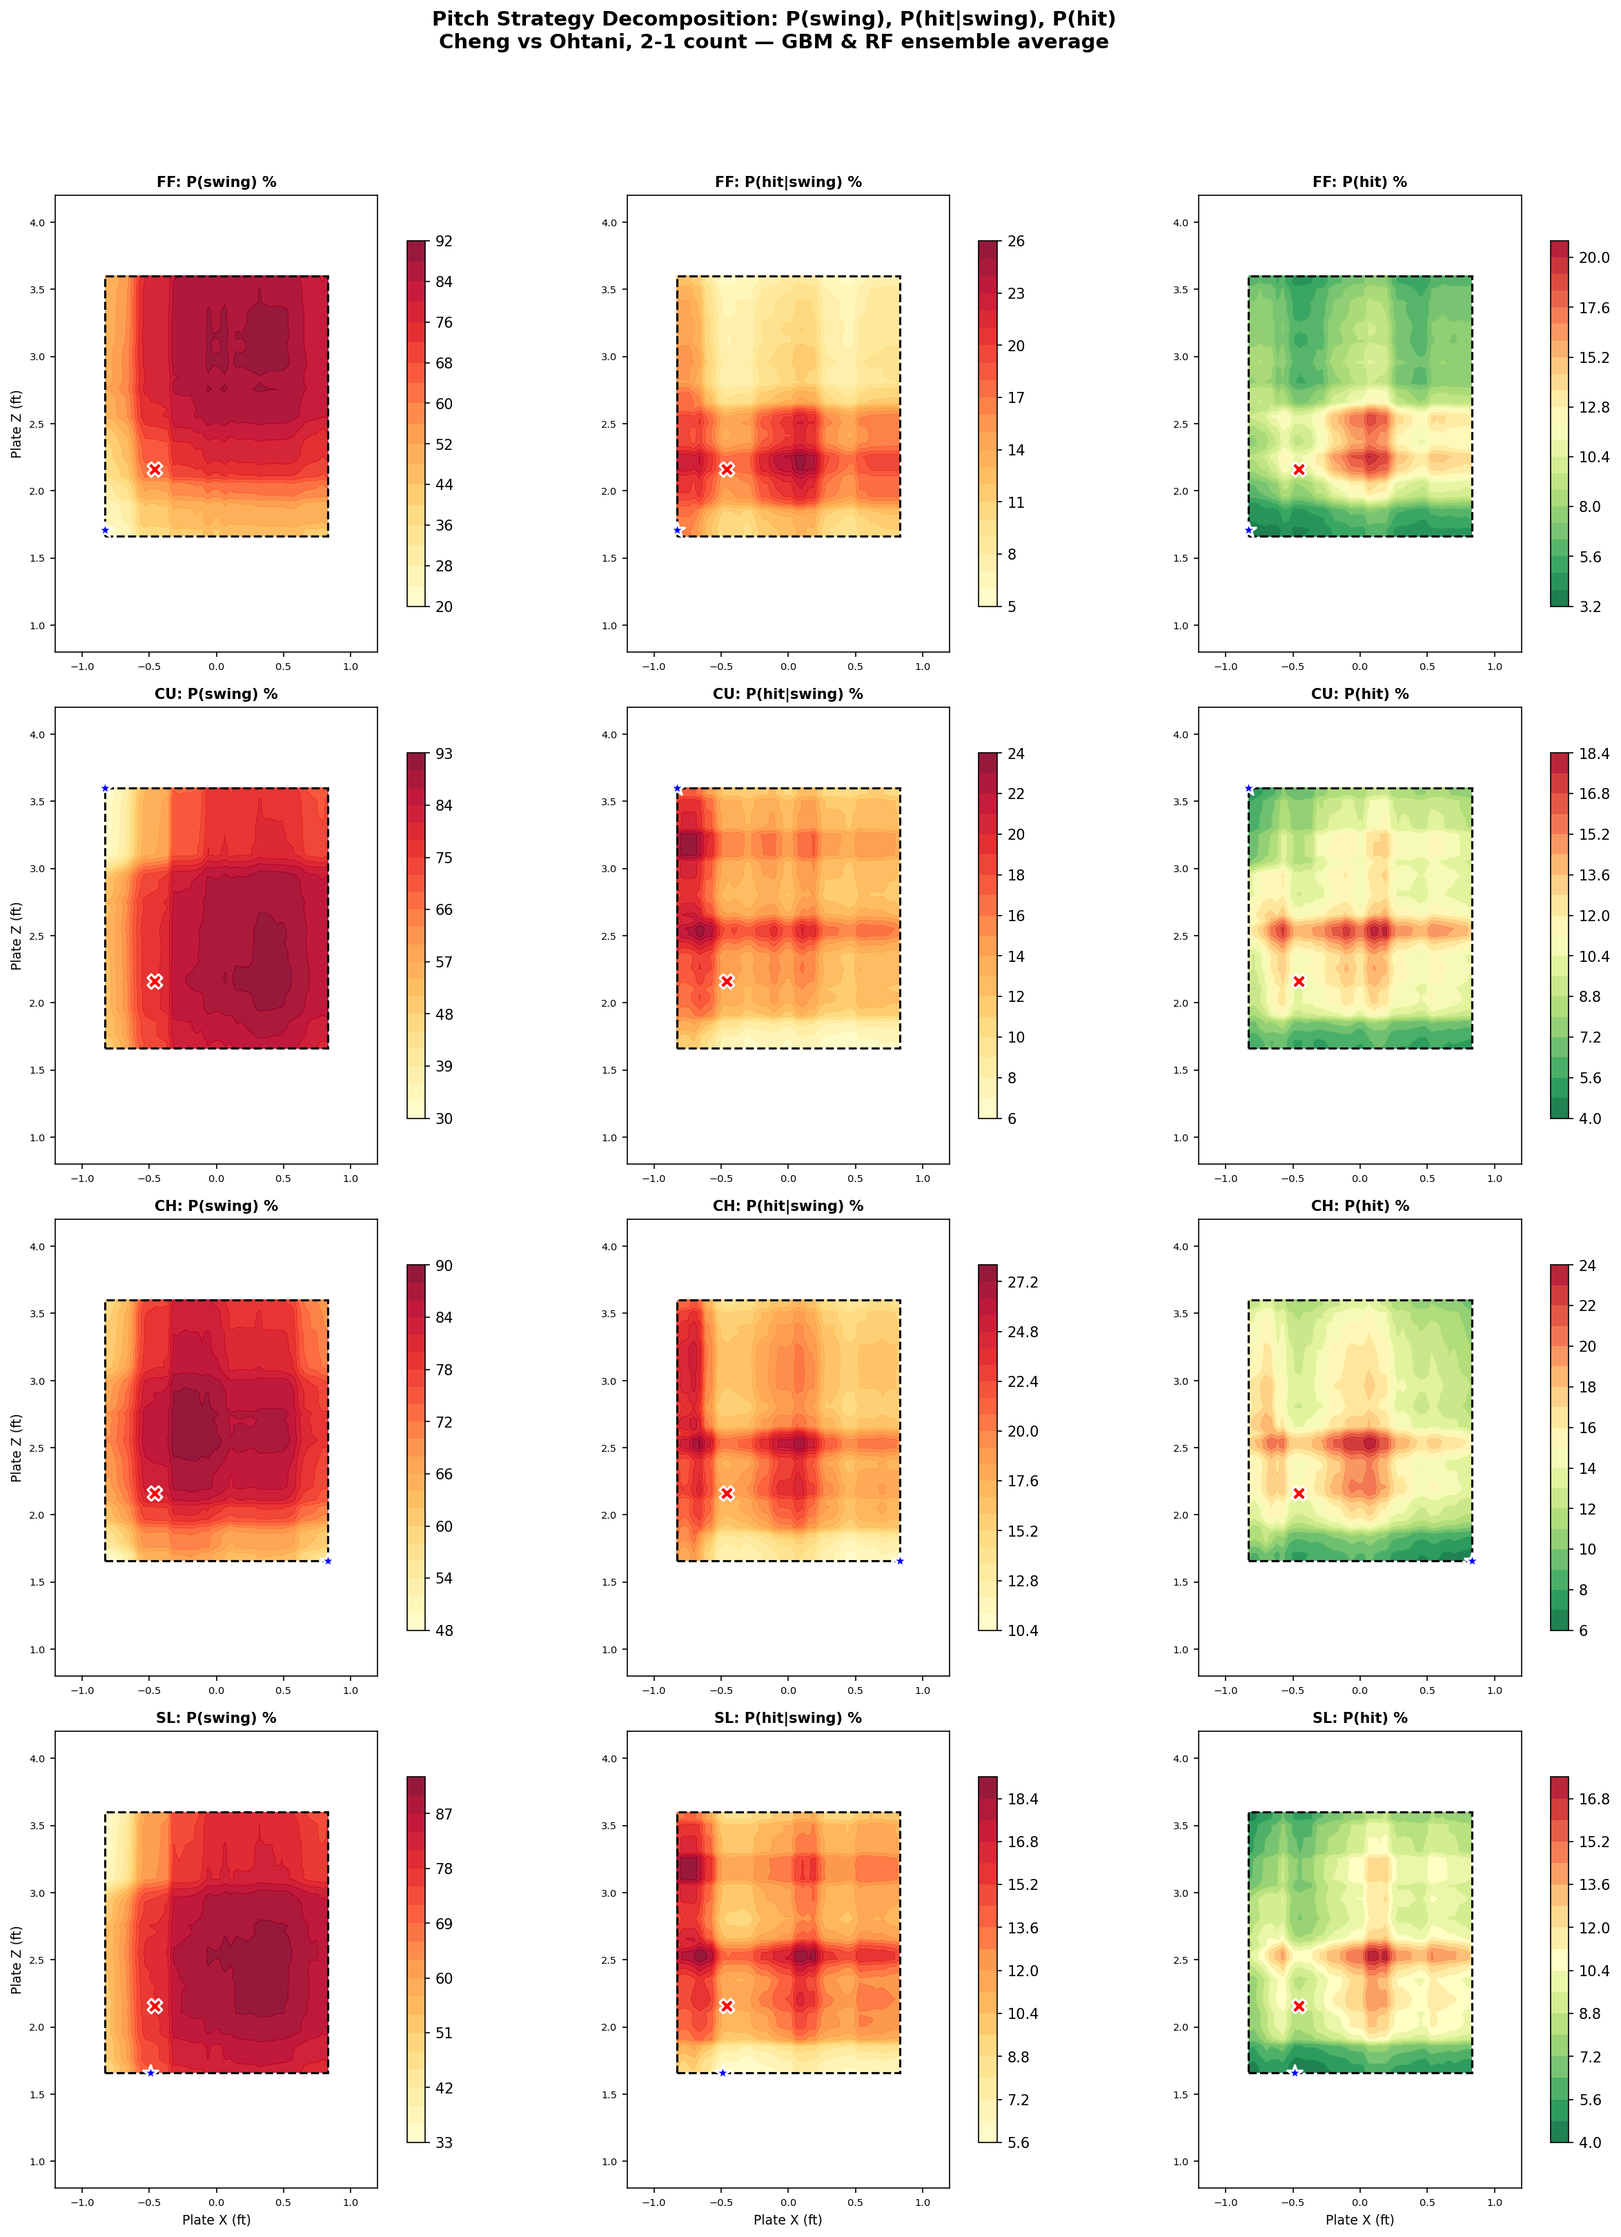
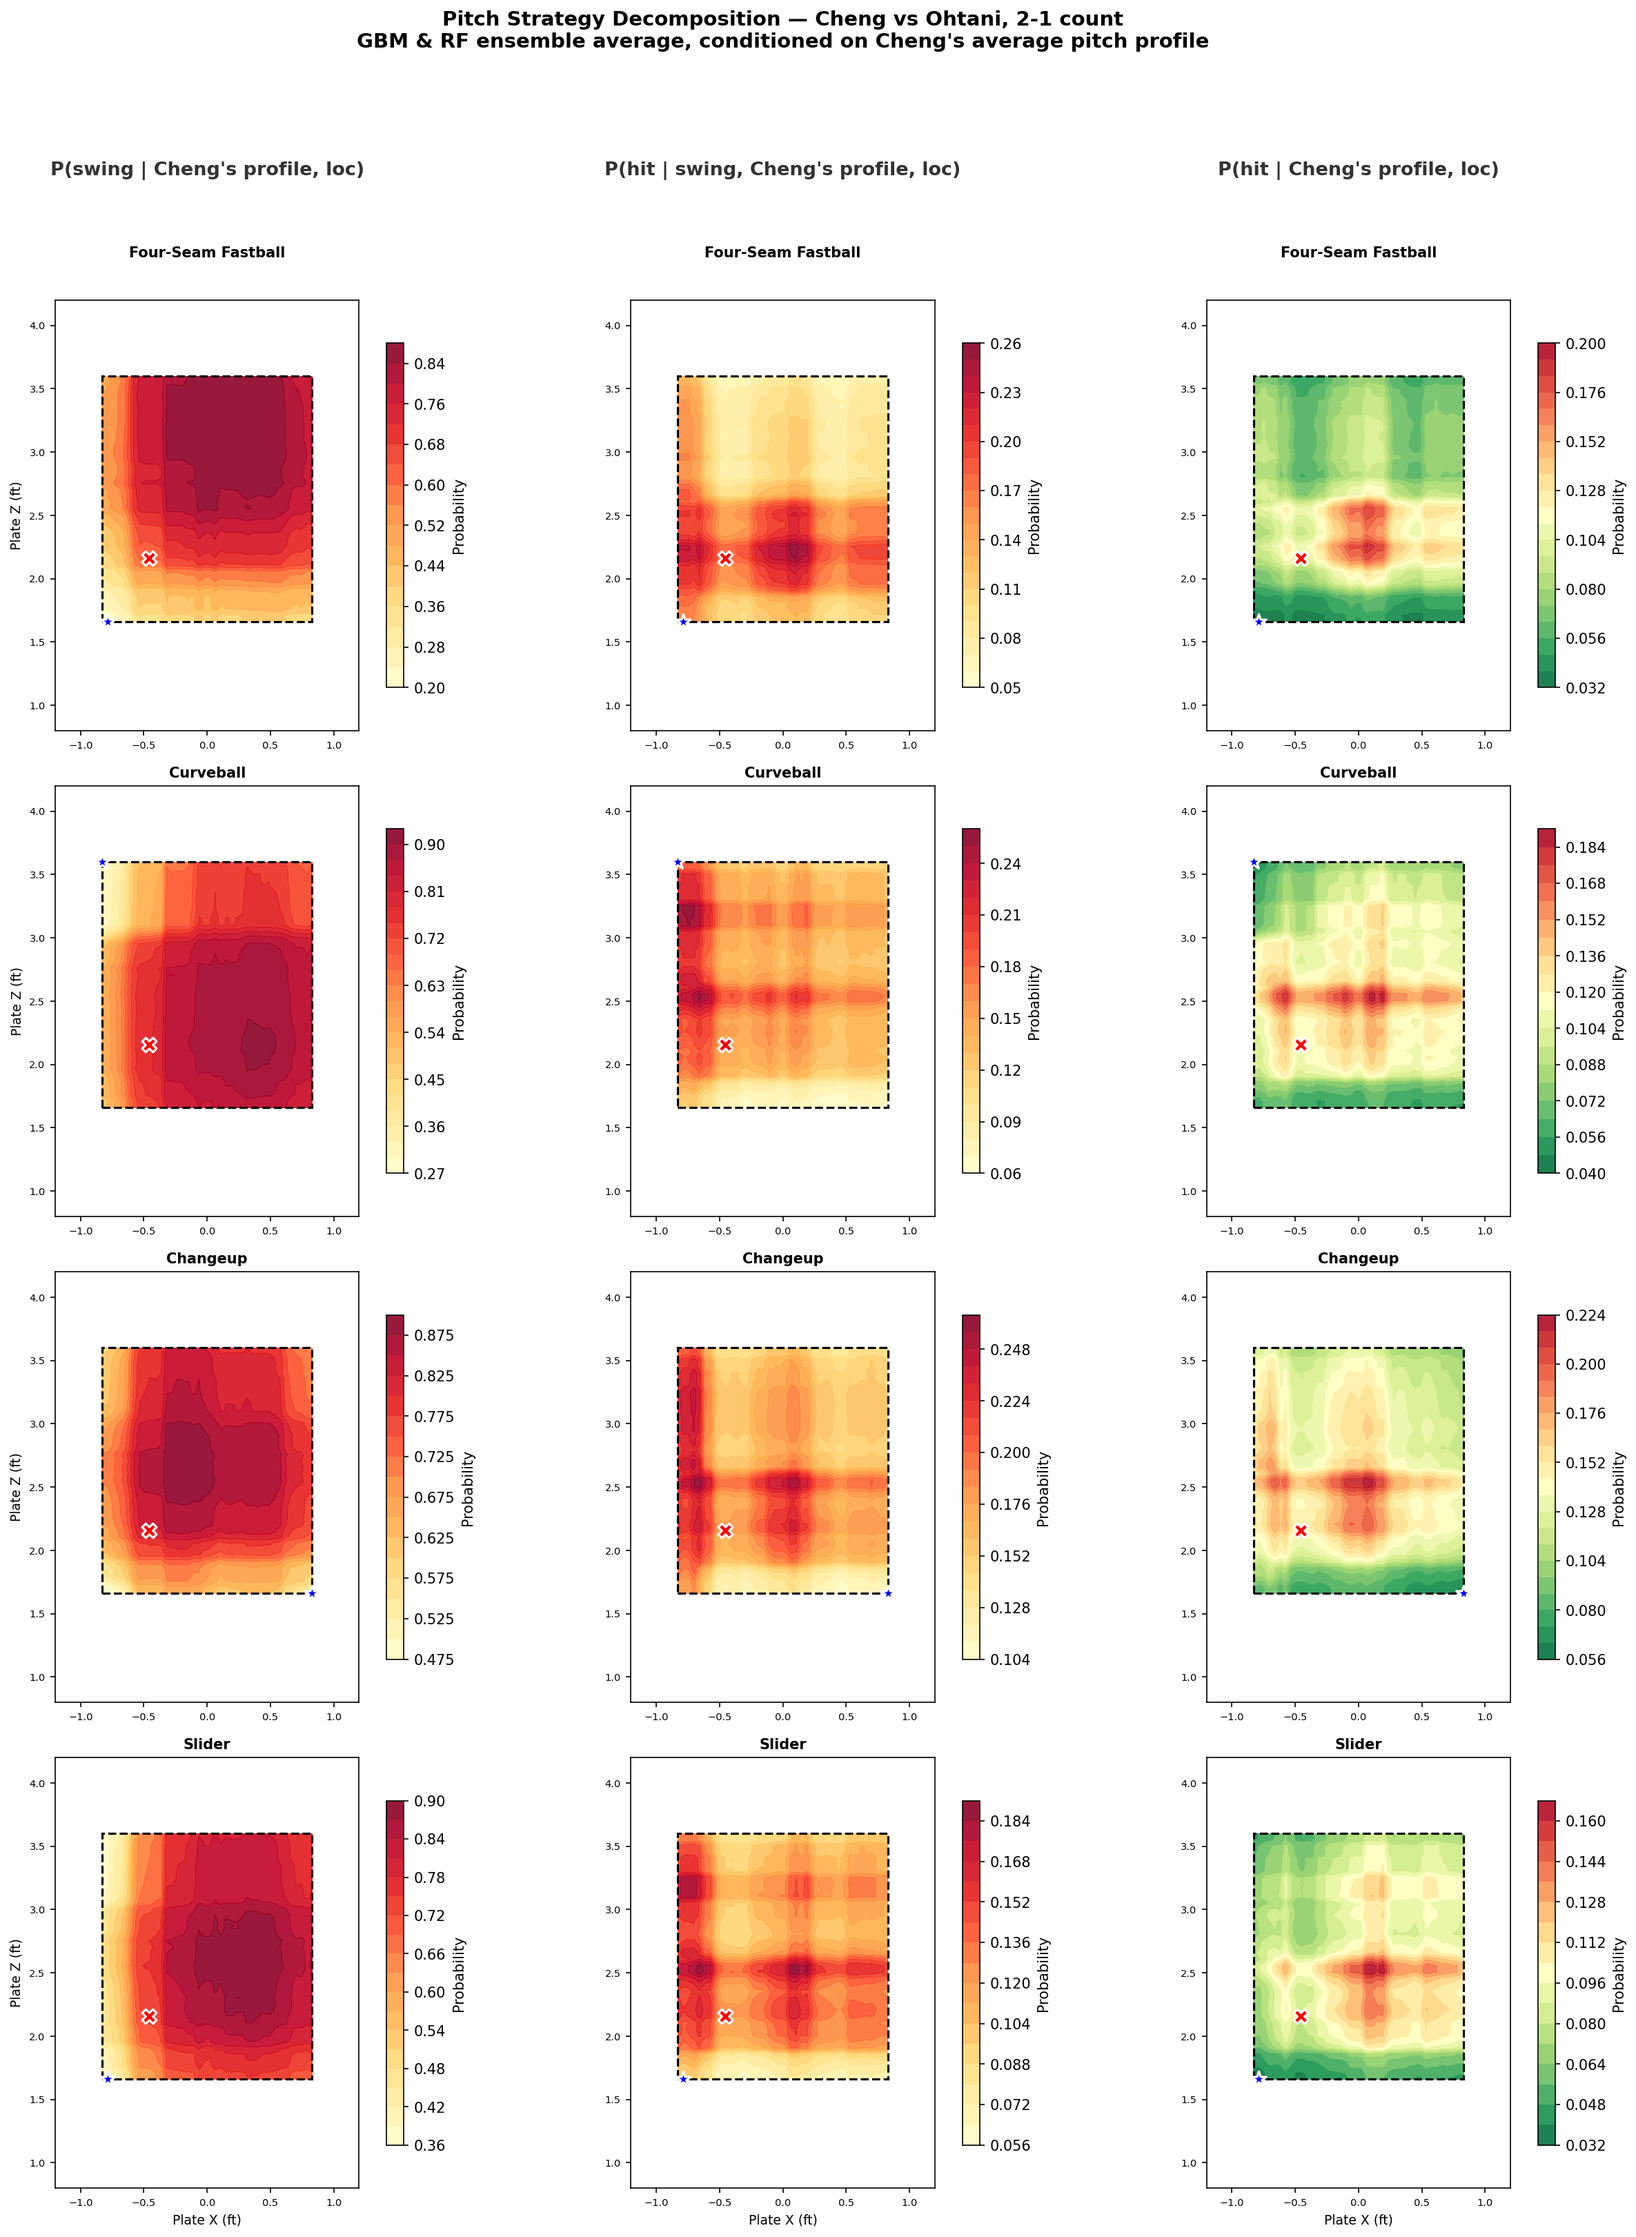
Update strategy decomposition to condition on Cheng's pitch profile
- Replace figure with version conditioned on Cheng's average pitch
  profile per pitch type, making strategy recommendations actionable
- Update column labels: P(swing|Cheng's profile,loc), etc.
- Reframe section as "Where Should Cheng Have Aimed?" with transition
  explaining the three levels of conditioning: KDE (location only) →
  model verdict (specific pitch) → strategy (Cheng's profile × location)
- Update conclusion to reference Cheng-specific conditioning

diff --git a/_portfolio/portfolio-98-baseball-jpn.md b/_portfolio/portfolio-98-baseball-jpn.md
@@ -143,11 +143,13 @@ collection: portfolio
   </div>
 </div>
 
-### Optimal Pitching Strategy: Decomposing P(hit)
+### Optimal Pitching Strategy: Where Should Cheng Have Aimed?
 
-<img src="/images/jpn_ohtani_pitch_strategy_decomp.png" alt="Pitch Strategy Decomposition: P(swing), P(hit|swing), P(hit)" style="width: 100%; max-width: 900px; border-radius: 8px; box-shadow: 0 4px 15px rgba(0,0,0,0.2); margin: 20px 0;">
+<p style="color: #666; font-size: 0.95em; margin-bottom: 5px;">We established that Cheng's grand slam curveball had P(hit) ≈ 9% — already low. But could he have done even better? The KDE heatmaps above condition on location only; the model verdict conditions on <em>one specific pitch</em>. To answer the strategy question, we need to vary <strong>location</strong> while holding Cheng's pitching profile fixed — using his average speed, spin, and movement for each pitch type. This gives an actionable map: for each of Cheng's four pitch types, where should he have targeted?</p>
 
-<p style="color: #666; font-size: 0.95em;"><strong>P(hit) = P(swing) × P(hit|swing)</strong> — the full decomposition by pitch type (FF = Four-seam Fastball, CU = Curveball, CH = Changeup, SL = Slider). Left column: P(swing) shows where Ohtani is likely to offer. Middle column: P(hit|swing) shows where contact is most dangerous. Right column: P(hit) combines both — the true danger metric. The white square marks the grand slam curveball location; the blue dot marks the optimal (lowest P(hit)) location. This decomposition reveals that some zones have high P(hit|swing) but low P(swing) (e.g., low-outside), making them strategically safe despite contact danger.</p>
+<img src="/images/jpn_ohtani_pitch_strategy_decomp.png" alt="Pitch Strategy Decomposition — Cheng vs Ohtani, conditioned on Cheng's profile" style="width: 100%; max-width: 900px; border-radius: 8px; box-shadow: 0 4px 15px rgba(0,0,0,0.2); margin: 20px 0;">
+
+<p style="color: #666; font-size: 0.95em;">GBM & RF ensemble average, conditioned on <strong>Cheng's average pitch profile</strong> for each pitch type on a 2-1 count. Each row is one of Cheng's four pitches (Four-Seam Fastball, Curveball, Changeup, Slider). <strong>Left: P(swing | Cheng's profile, loc)</strong> — where Ohtani would offer against Cheng's pitches. <strong>Middle: P(hit | swing, Cheng's profile, loc)</strong> — where contact is most dangerous. <strong>Right: P(hit | Cheng's profile, loc)</strong> — the combined danger metric. The white square marks where Cheng actually threw the grand slam curveball; the blue dot marks the optimal (lowest P(hit)) location for each pitch type. Key insight: some zones have high P(hit | swing) but low P(swing) (e.g., low-outside), making them strategically safe despite contact danger.</p>
 
 <div style="background: #1a1a2e; padding: 25px; border-radius: 12px; margin: 25px 0; text-align: center;">
   <p style="color: #93c5fd; font-size: 1.3em; font-weight: bold; margin: 0;">Model Recommendation</p>
@@ -156,7 +158,7 @@ collection: portfolio
     <div><span style="font-size: 1.6em; font-weight: bold; color: #7fecb3;">Fastball</span><br><span style="color: #aaa;">Low & away — P(hit) = 3.6%</span></div>
     <div><span style="font-size: 1.6em; font-weight: bold; color: #fca5a5;">Curveball</span><br><span style="color: #aaa;">Cheng's choice — P(hit) = 4.8%*</span></div>
   </div>
-  <p style="color: #888; font-size: 0.85em; margin-top: 15px;">*Optimal curveball location. P(hit) = P(swing) × P(hit|swing) accounts for both swing likelihood and contact quality. Cheng's actual curveball had P(hit) ≈ 9% — already low, but optimal locations could push it even lower. A low-and-away fastball or low-inside changeup would have been the statistically safest options.</p>
+  <p style="color: #888; font-size: 0.85em; margin-top: 15px;">*Optimal curveball location at Cheng's average curveball profile. Cheng's actual curveball had P(hit) ≈ 9% — already low, but a better-located curveball could reach 4.8%. A low-and-away fastball (3.6%) or low-inside changeup (4.1%) with Cheng's typical profiles would have been the statistically safest options.</p>
 </div>
 
 ---
@@ -167,7 +169,7 @@ collection: portfolio
   <ol style="line-height: 2; font-size: 1.05em;">
     <li><strong>Cheng's count control was the real problem</strong> — he repeatedly fell behind batters, loading the bases before Ohtani's at-bat. The meltdown was set up by a pattern, not a single pitch.</li>
     <li><strong>The grand slam pitch was not a bad pitch</strong> — with P(swing) ≈ 71%, P(hit|swing) ≈ 13%, and P(hit) ≈ 9%, the curveball had low overall danger. Its high spin rate (2,483 rpm), strong vertical break (−7.09 in.), and speed differential all suppressed hit probability. Cheng showed courage competing against Ohtani rather than issuing an intentional walk.</li>
-    <li><strong>There was room for improvement</strong> — the models suggest a low-and-away fastball (P(hit) = 3.6%) or low-inside changeup (P(hit) = 4.1%) would have minimized the combined P(swing) × P(hit|swing) danger better than the curveball location Cheng chose.</li>
+    <li><strong>There was room for improvement</strong> — conditioned on Cheng's own pitch profiles, the models suggest a low-and-away fastball (P(hit) = 3.6%) or low-inside changeup (P(hit) = 4.1%) would have been safer than the curveball location he chose (9% actual vs. 4.8% at the optimal curveball spot).</li>
     <li><strong>The damage continued after Cheng</strong> — Hu and Sha combined for 5 more ER, proving this was a team-wide defensive collapse, not one pitcher's failure.</li>
   </ol>
 </div>
